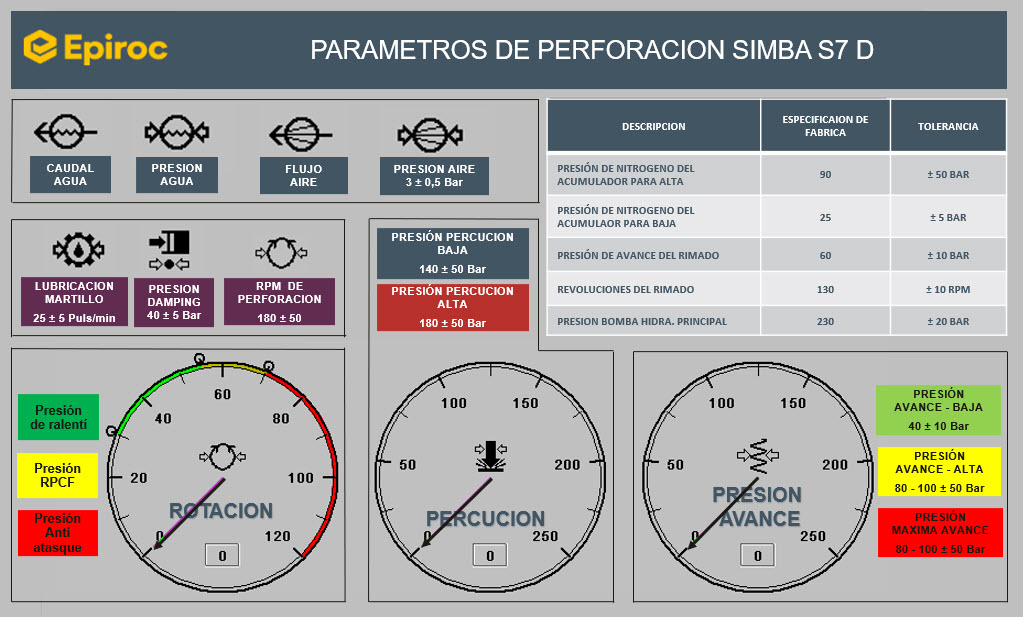
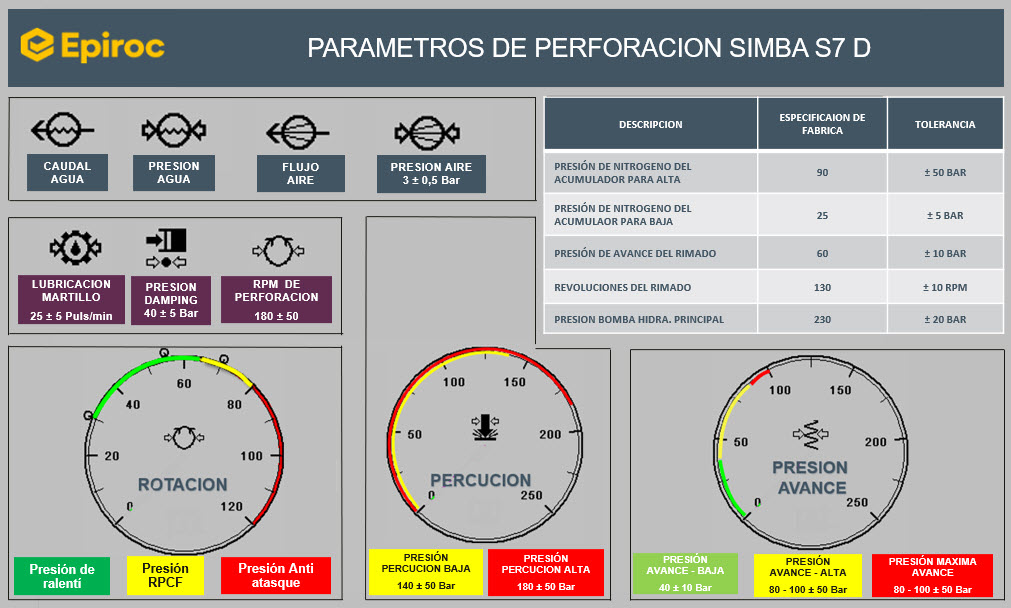
cambio a sqlite

diff --git a/app/Http/Controllers/ManualController.php b/app/Http/Controllers/ManualController.php
@@ -13,40 +13,12 @@ use Illuminate\Support\Str;
 class ManualController extends Controller
 {
     /**
-     * Array con la configuración de equipos
-     */
-    private function getEquipments()
-    {
-        return [
-            [
-                'type' => 'De acarreo',
-                'models' => ['ST7', 'ST2G', 'MT2010', 'MT2200'],
-                'description' => ['partes', 'diagrama', 'seguridad', 'operación', 'mantenimiento']
-            ],
-            [
-                'type' => 'Perforación',
-                'models' => ['SIMBA S7 D', 'BOOMER S1 D', 'BOOMER T1 D'],
-                'description' => ['partes', 'diagrama', 'seguridad', 'operación', 'mantenimiento']
-            ],
-        ];
-    }
-
-    /**
      * Display a listing of the resource.
      */
     public function index()
     {
         // Los manuales se cargarán via Livewire DataTable
         return view('manuals.index');
-    }
-
-    /**
-     * Show the form for creating a new resource.
-     */
-    public function create()
-    {
-        $equipments = $this->getEquipments();
-        return view('manuals.create', compact('equipments'));
     }
 
     /**
@@ -59,7 +31,7 @@ class ManualController extends Controller
 
             // Obtener el array de equipos para mapear el índice al nombre real
             $equipments = $this->getEquipments();
-            $equipmentIndex = (int) $request->equipment_type;
+            $equipmentIndex = (int)$request->equipment_type;
 
             // Validar que el índice existe
             if (!isset($equipments[$equipmentIndex])) {
@@ -185,6 +157,34 @@ class ManualController extends Controller
     }
 
     /**
+     * Array con la configuración de equipos
+     */
+    private function getEquipments()
+    {
+        return [
+            [
+                'type' => 'De acarreo',
+                'models' => ['ST7', 'ST2G', 'MT2010', 'MT2200'],
+                'description' => ['partes', 'diagrama', 'seguridad', 'operación', 'mantenimiento']
+            ],
+            [
+                'type' => 'Perforación',
+                'models' => ['SIMBA S7 D', 'BOOMER S1 D', 'BOOMER T1 D'],
+                'description' => ['partes', 'diagrama', 'seguridad', 'operación', 'mantenimiento']
+            ],
+        ];
+    }
+
+    /**
+     * Show the form for creating a new resource.
+     */
+    public function create()
+    {
+        $equipments = $this->getEquipments();
+        return view('manuals.create', compact('equipments'));
+    }
+
+    /**
      * Display the specified resource.
      */
     public function show(Manual $manual)
@@ -223,15 +223,6 @@ class ManualController extends Controller
     }
 
     /**
-     * Update the specified resource in storage.
-     */
-    public function update(Request $request, Manual $manual)
-    {
-        // Implementar lógica de actualización si es necesaria
-        // Similar al store pero permitiendo actualizar el archivo opcionalmente
-    }
-
-    /**
      * Remove the specified resource from storage.
      */
     public function destroy(Manual $manual)
@@ -249,7 +240,9 @@ class ManualController extends Controller
             ]);
 
             // Opcionalmente, eliminar el archivo físico
-            // Storage::disk('public')->delete($filePath);
+            Storage::disk('public')->delete($filePath);
+
+            $manual->delete();
 
             DB::commit();
 
@@ -269,5 +262,14 @@ class ManualController extends Controller
                 ->back()
                 ->with('error', 'Error al eliminar el manual.');
         }
+    }
+
+    /**
+     * Update the specified resource in storage.
+     */
+    public function update(Request $request, Manual $manual)
+    {
+        // Implementar lógica de actualización si es necesaria
+        // Similar al store pero permitiendo actualizar el archivo opcionalmente
     }
 }

diff --git a/app/Livewire/ManualTable.php b/app/Livewire/ManualTable.php
@@ -16,15 +16,9 @@ class ManualTable extends DataTableComponent
     public function configure(): void
     {
         $this->setPrimaryKey('id');
-
         $this->setPerPageAccepted([10, 15, -1]);
         $this->resetPage();
         $this->setPerPage(10);
-        $this->setBulkActions([
-            'deleteSelected' => 'Borrar',
-        ]);
-
-
     }
 
     public function columns(): array
@@ -37,16 +31,20 @@ class ManualTable extends DataTableComponent
             Column::make("Agregado", "published_date")
                 ->format(fn($value) => Carbon::parse($value)->format('d-m-Y'))
                 ->sortable()
-                ->searchable(), // Agregar searchable aquí también
+                ->searchable(),
+
             Column::make("Equipo", "equipment_type")
                 ->sortable()
                 ->searchable(),
+
             Column::make("Modelo", "model")
                 ->sortable()
                 ->searchable(),
+
             Column::make("Manual de", "manual_type")
                 ->sortable()
                 ->searchable(),
+
             Column::make("Version", "version")
                 ->sortable()
                 ->searchable(),
@@ -55,40 +53,11 @@ class ManualTable extends DataTableComponent
                 ->sortable()
                 ->searchable(),
 
-
-            ButtonGroupColumn::make('Acciones')
-                ->buttons([
-                    LinkColumn::make('Acciones')
-                        ->title(fn() => 'Ver Manual')
-                        ->location(fn($row) => route('manual.show', $row->id))
-                        ->attributes(fn($row) => [
-                            'class' => 'bg-yellow-main hover:bg-blue-main cursor-pointer px-4 py-2 text-sm font-semibold rounded-md text-white transition-colors duration-300 inline-flex items-center justify-center',
-                        ]),
-                // Aqui otro botón para llamar al método destroy del controlador
-
-
-                ])->unclickable(),
+            Column::make('Acciones')
+                ->label(
+                    fn($row) => view('manuals.partials.actions', ['manual' => $row])
+                )
+                ->html(),
         ];
     }
-
-    public function deleteSelected()
-    {
-        // Solo pedimos confirmación
-        $this->dispatch('confirmDelete', count($this->getSelected()));
-    }
-
-    public function deleteConfirmed()
-    {
-        if (\Gate::allows('admin-access')) {
-            if ($this->getSelected()) {
-
-            }
-        }
-
-        $this->clearSelected();
-        session()->flash('fail', 'No tienes los permisos necesarios');
-        $this->dispatch('$refresh');
-    }
-
-
 }

diff --git a/resources/views/manuals/partials/actions.blade.php b/resources/views/manuals/partials/actions.blade.php
@@ -1,0 +1,23 @@
+<div class="flex gap-2">
+    {{-- Botón Ver --}}
+    <a href="{{ route('manual.show', $manual->id) }}"
+       target="_blank"
+       class="bg-yellow-main hover:bg-blue-main px-3 py-1 text-sm font-semibold rounded text-white transition-colors duration-200">
+        Ver Manual
+    </a>
+
+    {{-- Botón Eliminar (solo para admins) --}}
+    @can('admin-access')
+        <form action="{{ route('manual.destroy', $manual->id) }}"
+              method="POST"
+              class="inline"
+              onsubmit="return confirm('¿Está seguro de que desea eliminar este manual?');">
+            @csrf
+            @method('DELETE')
+            <button type="submit"
+                    class="bg-red-500 hover:bg-red-600 px-3 py-1 text-sm font-semibold rounded text-white transition-colors duration-200">
+                Eliminar
+            </button>
+        </form>
+    @endcan
+</div>
